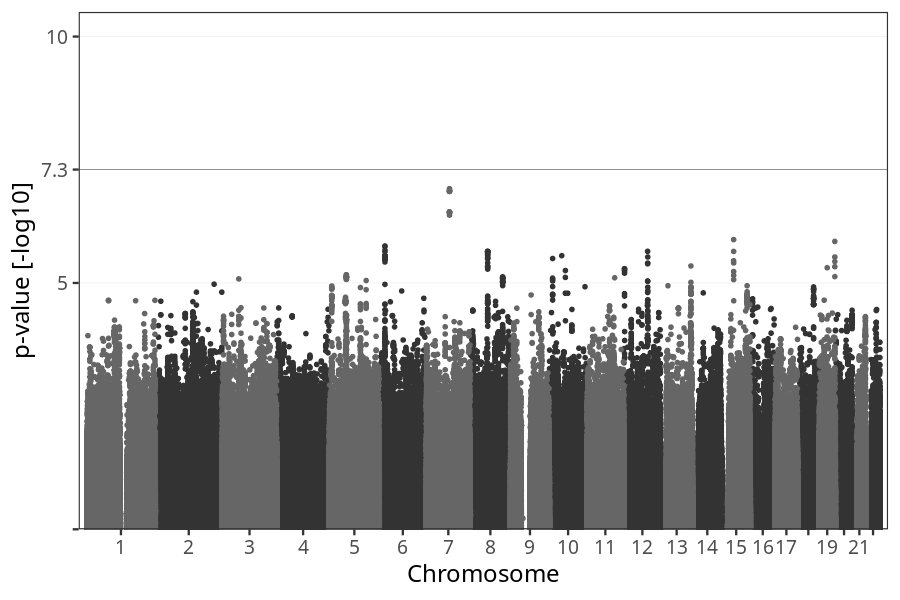
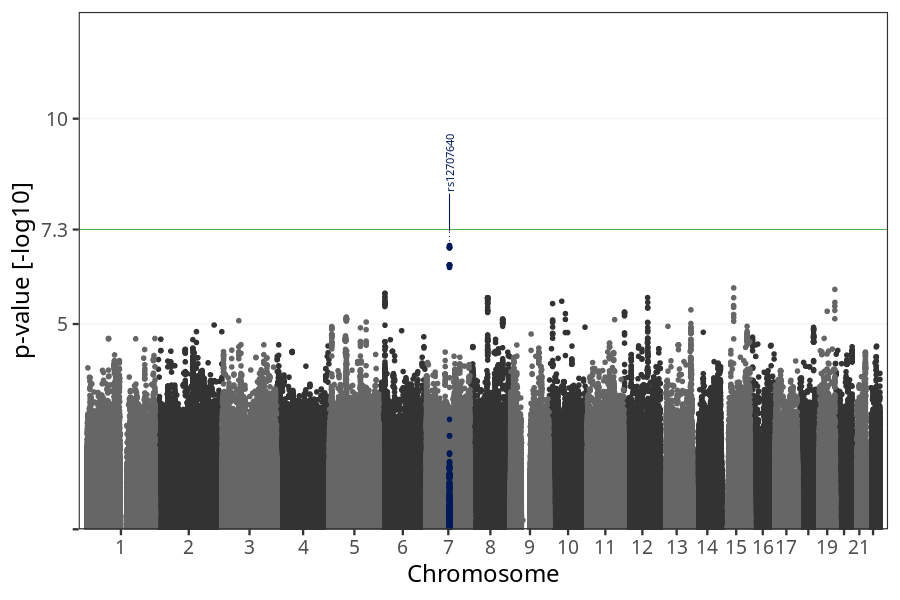
rerun

diff --git a/docs/hyperemesis_gravidarum.md b/docs/hyperemesis_gravidarum.md
@@ -15,19 +15,19 @@ GWAS of mothers hospitalized due to prolonged nausea and vomiting.
 ![](regenie/pop_children_pheno_hyperemesis_gravidarum/figures/pop_children_pheno_hyperemesis_gravidarum_mh.png)
 Results prior to COJO are available [here](regenie_no_cojo/pop_children_pheno_hyperemesis_gravidarum/pop_children_pheno_hyperemesis_gravidarum.md)
 
-### children_nausea_vomiting
+### children_no_nausea_vomiting
 
 #### Phenotypes
 | Value | N |
 | ----- | - |
 | 0 | 54051 |
-| 1 | 739 |
-| Total | 54790 |
+| 1 | 748 |
+| Total | 54799 |
 
 #### Association results
-- [Association results](regenie/pop_children_nausea_vomiting_pheno_hyperemesis_gravidarum/pop_children_nausea_vomiting_pheno_hyperemesis_gravidarum.md)
-![](regenie/pop_children_nausea_vomiting_pheno_hyperemesis_gravidarum/figures/pop_children_nausea_vomiting_pheno_hyperemesis_gravidarum_mh.png)
-Results prior to COJO are available [here](regenie_no_cojo/pop_children_nausea_vomiting_pheno_hyperemesis_gravidarum/pop_children_nausea_vomiting_pheno_hyperemesis_gravidarum.md)
+- [Association results](regenie/pop_children_no_nausea_vomiting_pheno_hyperemesis_gravidarum/pop_children_no_nausea_vomiting_pheno_hyperemesis_gravidarum.md)
+![](regenie/pop_children_no_nausea_vomiting_pheno_hyperemesis_gravidarum/figures/pop_children_no_nausea_vomiting_pheno_hyperemesis_gravidarum_mh.png)
+Results prior to COJO are available [here](regenie_no_cojo/pop_children_no_nausea_vomiting_pheno_hyperemesis_gravidarum/pop_children_no_nausea_vomiting_pheno_hyperemesis_gravidarum.md)
 
 ### mothers
 
@@ -43,19 +43,19 @@ Results prior to COJO are available [here](regenie_no_cojo/pop_children_nausea_v
 ![](regenie/pop_mothers_pheno_hyperemesis_gravidarum/figures/pop_mothers_pheno_hyperemesis_gravidarum_mh.png)
 Results prior to COJO are available [here](regenie_no_cojo/pop_mothers_pheno_hyperemesis_gravidarum/pop_mothers_pheno_hyperemesis_gravidarum.md)
 
-### mothers_nausea_vomiting
+### mothers_no_nausea_vomiting
 
 #### Phenotypes
 | Value | N |
 | ----- | - |
 | 0 | 41287 |
-| 1 | 571 |
-| Total | 41858 |
+| 1 | 577 |
+| Total | 41864 |
 
 #### Association results
-- [Association results](regenie/pop_mothers_nausea_vomiting_pheno_hyperemesis_gravidarum/pop_mothers_nausea_vomiting_pheno_hyperemesis_gravidarum.md)
-![](regenie/pop_mothers_nausea_vomiting_pheno_hyperemesis_gravidarum/figures/pop_mothers_nausea_vomiting_pheno_hyperemesis_gravidarum_mh.png)
-Results prior to COJO are available [here](regenie_no_cojo/pop_mothers_nausea_vomiting_pheno_hyperemesis_gravidarum/pop_mothers_nausea_vomiting_pheno_hyperemesis_gravidarum.md)
+- [Association results](regenie/pop_mothers_no_nausea_vomiting_pheno_hyperemesis_gravidarum/pop_mothers_no_nausea_vomiting_pheno_hyperemesis_gravidarum.md)
+![](regenie/pop_mothers_no_nausea_vomiting_pheno_hyperemesis_gravidarum/figures/pop_mothers_no_nausea_vomiting_pheno_hyperemesis_gravidarum_mh.png)
+Results prior to COJO are available [here](regenie_no_cojo/pop_mothers_no_nausea_vomiting_pheno_hyperemesis_gravidarum/pop_mothers_no_nausea_vomiting_pheno_hyperemesis_gravidarum.md)
 
 ### fathers
 
@@ -71,17 +71,17 @@ Results prior to COJO are available [here](regenie_no_cojo/pop_mothers_nausea_vo
 ![](regenie/pop_fathers_pheno_hyperemesis_gravidarum/figures/pop_fathers_pheno_hyperemesis_gravidarum_mh.png)
 Results prior to COJO are available [here](regenie_no_cojo/pop_fathers_pheno_hyperemesis_gravidarum/pop_fathers_pheno_hyperemesis_gravidarum.md)
 
-### fathers_nausea_vomiting
+### fathers_no_nausea_vomiting
 
 #### Phenotypes
 | Value | N |
 | ----- | - |
-| 0 | 28561 |
-| 1 | 426 |
-| Total | 28987 |
+| 0 | 9461 |
+| 1 | 430 |
+| Total | 9891 |
 
 #### Association results
-- [Association results](regenie/pop_fathers_nausea_vomiting_pheno_hyperemesis_gravidarum/pop_fathers_nausea_vomiting_pheno_hyperemesis_gravidarum.md)
-![](regenie/pop_fathers_nausea_vomiting_pheno_hyperemesis_gravidarum/figures/pop_fathers_nausea_vomiting_pheno_hyperemesis_gravidarum_mh.png)
-Results prior to COJO are available [here](regenie_no_cojo/pop_fathers_nausea_vomiting_pheno_hyperemesis_gravidarum/pop_fathers_nausea_vomiting_pheno_hyperemesis_gravidarum.md)
+- [Association results](regenie/pop_fathers_no_nausea_vomiting_pheno_hyperemesis_gravidarum/pop_fathers_no_nausea_vomiting_pheno_hyperemesis_gravidarum.md)
+![](regenie/pop_fathers_no_nausea_vomiting_pheno_hyperemesis_gravidarum/figures/pop_fathers_no_nausea_vomiting_pheno_hyperemesis_gravidarum_mh.png)
+Results prior to COJO are available [here](regenie_no_cojo/pop_fathers_no_nausea_vomiting_pheno_hyperemesis_gravidarum/pop_fathers_no_nausea_vomiting_pheno_hyperemesis_gravidarum.md)
 

diff --git a/docs/regenie/pop_children_no_nausea_vomiting_pheno_hyperemesis_gravidarum/ensembl/rs34741019.md b/docs/regenie/pop_children_no_nausea_vomiting_pheno_hyperemesis_gravidarum/ensembl/rs34741019.md
@@ -1,0 +1,19 @@
+# rs34741019
+
+[[GWAS Catalog]](https://www.ebi.ac.uk/gwas/variants/rs34741019)[[UCSC]](https://genome.ucsc.edu/cgi-bin/hgTracks?position=chr1:209655528-209855528&addHighlight=hg19.chr1%3A123065528%2D123066028%23fcfcac&hgFind.matches=rs34741019&db=hg19)[[Ensembl]](https://grch37.ensembl.org/Homo_sapiens/Variation/Explore?r=1:209755528-209755528;v=rs34741019;vdb=variation)
+## Closest genes
+
+Genes withing 100 kbp
+
+| Direction | Distance | Name | Strand | Start | End | Biotype | Description | ID |
+| --------- | -------- | ---- | ------ | ----- | --- | ------- | ----------- | -- |
+| Upstream | 14510 | RP1-272L16.1 | -1 | 209701800 | 209741018 | lincRNA |  | ENSG00000224260 |
+| Downstream | 1534 | CAMK1G | 1 | 209757062 | 209787283 | protein_coding | calcium/calmodulin-dependent protein kinase IG [Source:HGNC Symbol;Acc:14585] | ENSG00000008118 |
+| Downstream | 32687 | LAMB3 | -1 | 209788215 | 209825811 | protein_coding | laminin, beta 3 [Source:HGNC Symbol;Acc:6490] | ENSG00000196878 |
+| Downstream | 41261 | MIR4260 | -1 | 209796789 | 209796855 | miRNA | microRNA 4260 [Source:HGNC Symbol;Acc:38179] | ENSG00000264831 |
+| Downstream | 79181 | RP1-28O10.1 | -1 | 209834709 | 209897470 | antisense |  | ENSG00000227591 |
+| Downstream | 93237 | G0S2 | 1 | 209848765 | 209849733 | protein_coding | G0/G1switch 2 [Source:HGNC Symbol;Acc:30229] | ENSG00000123689 |
+
+
+Download: [[VEP]](rs34741019_vep.json.gz)[[Genes]](rs34741019_gene.json.gz)
+

diff --git a/docs/regenie/pop_children_pheno_hyperemesis_gravidarum/ensembl/rs35458333.md b/docs/regenie/pop_children_pheno_hyperemesis_gravidarum/ensembl/rs35458333.md
@@ -1,0 +1,19 @@
+# rs35458333
+
+[[GWAS Catalog]](https://www.ebi.ac.uk/gwas/variants/rs35458333)[[UCSC]](https://genome.ucsc.edu/cgi-bin/hgTracks?position=chr1:209655967-209855967&addHighlight=hg19.chr1%3A123065528%2D123066028%23fcfcac&hgFind.matches=rs35458333&db=hg19)[[Ensembl]](https://grch37.ensembl.org/Homo_sapiens/Variation/Explore?r=1:209755967-209755967;v=rs35458333;vdb=variation)
+## Closest genes
+
+Genes withing 100 kbp
+
+| Direction | Distance | Name | Strand | Start | End | Biotype | Description | ID |
+| --------- | -------- | ---- | ------ | ----- | --- | ------- | ----------- | -- |
+| Upstream | 14949 | RP1-272L16.1 | -1 | 209701800 | 209741018 | lincRNA |  | ENSG00000224260 |
+| Downstream | 1095 | CAMK1G | 1 | 209757062 | 209787283 | protein_coding | calcium/calmodulin-dependent protein kinase IG [Source:HGNC Symbol;Acc:14585] | ENSG00000008118 |
+| Downstream | 32248 | LAMB3 | -1 | 209788215 | 209825811 | protein_coding | laminin, beta 3 [Source:HGNC Symbol;Acc:6490] | ENSG00000196878 |
+| Downstream | 40822 | MIR4260 | -1 | 209796789 | 209796855 | miRNA | microRNA 4260 [Source:HGNC Symbol;Acc:38179] | ENSG00000264831 |
+| Downstream | 78742 | RP1-28O10.1 | -1 | 209834709 | 209897470 | antisense |  | ENSG00000227591 |
+| Downstream | 92798 | G0S2 | 1 | 209848765 | 209849733 | protein_coding | G0/G1switch 2 [Source:HGNC Symbol;Acc:30229] | ENSG00000123689 |
+
+
+Download: [[VEP]](rs35458333_vep.json.gz)[[Genes]](rs35458333_gene.json.gz)
+

diff --git a/docs/regenie/pop_children_no_nausea_vomiting_pheno_hyperemesis_gravidarum/pop_children_no_nausea_vomiting_pheno_hyperemesis_gravidarum.md b/docs/regenie/pop_children_no_nausea_vomiting_pheno_hyperemesis_gravidarum/pop_children_no_nausea_vomiting_pheno_hyperemesis_gravidarum.md
@@ -1,0 +1,15 @@
+## hyperemesis_gravidarum in children_no_nausea_vomiting
+Association results by regenie for hyperemesis_gravidarum in children_no_nausea_vomiting, followed by COJO analysis of the hits passing p < 5e-8.
+### Manhattan
+![](figures/pop_children_no_nausea_vomiting_pheno_hyperemesis_gravidarum_mh.png)
+### Top hits
+| SNP | chr | bp | ref | ref freq | beta | se | p | n | Ensembl | Phenoscanner | freq geno | b joint | b joint se | p joint | ld r |
+| --- | --- | -- | --- | -------- | ---- | -- | - | - | ------- | ------------ | --------- | ------- | ---------- | ------- | ---- |
+| rs34741019 | 1 | 209755528 | G | 0.145316 | 0.379026 | 0.0752548 | 4.7395e-07 | 55540.9 | [CAMK1G](ensembl/rs34741019.md) | No Results | 0.145379 | 0.379026 | 0.0752713 | 4.76691e-07 | 0 |
+### Quality Control
+- QQ plot
+![](figures/pop_children_no_nausea_vomiting_pheno_hyperemesis_gravidarum_qq.png)
+- Beta vs. Allele Frequency
+![](figures/pop_children_no_nausea_vomiting_pheno_hyperemesis_gravidarum_beta_af.png)
+- Standard error vs. Allele Frequency
+![](figures/pop_children_no_nausea_vomiting_pheno_hyperemesis_gravidarum_se_af.png)

diff --git a/docs/regenie/pop_mothers_no_nausea_vomiting_pheno_hyperemesis_gravidarum/pop_mothers_no_nausea_vomiting_pheno_hyperemesis_gravidarum.md b/docs/regenie/pop_mothers_no_nausea_vomiting_pheno_hyperemesis_gravidarum/pop_mothers_no_nausea_vomiting_pheno_hyperemesis_gravidarum.md
@@ -1,0 +1,15 @@
+## hyperemesis_gravidarum in mothers_no_nausea_vomiting
+Association results by regenie for hyperemesis_gravidarum in mothers_no_nausea_vomiting, followed by COJO analysis of the hits passing p < 5e-8.
+### Manhattan
+![](figures/pop_mothers_no_nausea_vomiting_pheno_hyperemesis_gravidarum_mh.png)
+### Top hits
+| SNP | chr | bp | ref | ref freq | beta | se | p | n | Ensembl | Phenoscanner | freq geno | b joint | b joint se | p joint | ld r |
+| --- | --- | -- | --- | -------- | ---- | -- | - | - | ------- | ------------ | --------- | ------- | ---------- | ------- | ---- |
+| rs12707640 | 7 | 83916042 | G | 0.0494789 | 0.717094 | 0.137945 | 2.01006e-07 | 41657.8 | [SEMA3A](ensembl/rs12707640.md) | No Results | 0.0496024 | 0.717094 | 0.137988 | 2.02768e-07 | 0 |
+### Quality Control
+- QQ plot
+![](figures/pop_mothers_no_nausea_vomiting_pheno_hyperemesis_gravidarum_qq.png)
+- Beta vs. Allele Frequency
+![](figures/pop_mothers_no_nausea_vomiting_pheno_hyperemesis_gravidarum_beta_af.png)
+- Standard error vs. Allele Frequency
+![](figures/pop_mothers_no_nausea_vomiting_pheno_hyperemesis_gravidarum_se_af.png)

diff --git a/docs/regenie/pop_fathers_no_nausea_vomiting_pheno_hyperemesis_gravidarum/pop_fathers_no_nausea_vomiting_pheno_hyperemesis_gravidarum.md b/docs/regenie/pop_fathers_no_nausea_vomiting_pheno_hyperemesis_gravidarum/pop_fathers_no_nausea_vomiting_pheno_hyperemesis_gravidarum.md
@@ -1,0 +1,14 @@
+## hyperemesis_gravidarum in fathers_no_nausea_vomiting
+Association results by regenie for hyperemesis_gravidarum in fathers_no_nausea_vomiting, followed by COJO analysis of the hits passing p < 5e-8.
+### Manhattan
+![](figures/pop_fathers_no_nausea_vomiting_pheno_hyperemesis_gravidarum_mh.png)
+### Top hits
+| SNP | chr | bp | ref | ref freq | beta | se | p | n | Ensembl | Phenoscanner | freq geno | b joint | b joint se | p joint | ld r |
+| --- | --- | -- | --- | -------- | ---- | -- | - | - | ------- | ------------ | --------- | ------- | ---------- | ------- | ---- |
+### Quality Control
+- QQ plot
+![](figures/pop_fathers_no_nausea_vomiting_pheno_hyperemesis_gravidarum_qq.png)
+- Beta vs. Allele Frequency
+![](figures/pop_fathers_no_nausea_vomiting_pheno_hyperemesis_gravidarum_beta_af.png)
+- Standard error vs. Allele Frequency
+![](figures/pop_fathers_no_nausea_vomiting_pheno_hyperemesis_gravidarum_se_af.png)

diff --git a/docs/regenie/pop_mothers_no_nausea_vomiting_pheno_hyperemesis_gravidarum/ensembl/rs12707640.md b/docs/regenie/pop_mothers_no_nausea_vomiting_pheno_hyperemesis_gravidarum/ensembl/rs12707640.md
@@ -1,0 +1,14 @@
+# rs12707640
+
+[[GWAS Catalog]](https://www.ebi.ac.uk/gwas/variants/rs12707640)[[UCSC]](https://genome.ucsc.edu/cgi-bin/hgTracks?position=chr7:83816042-84016042&addHighlight=hg19.chr7%3A123065528%2D123066028%23fcfcac&hgFind.matches=rs12707640&db=hg19)[[Ensembl]](https://grch37.ensembl.org/Homo_sapiens/Variation/Explore?r=7:83916042-83916042;v=rs12707640;vdb=variation)
+## Closest genes
+
+Genes withing 100 kbp
+
+| Direction | Distance | Name | Strand | Start | End | Biotype | Description | ID |
+| --------- | -------- | ---- | ------ | ----- | --- | ------- | ----------- | -- |
+| Intragenic | 0 | SEMA3A | -1 | 83585093 | 84122040 | protein_coding | sema domain, immunoglobulin domain (Ig), short basic domain, secreted, (semaphorin) 3A [Source:HGNC Symbol;Acc:10723] | ENSG00000075213 |
+
+
+Download: [[VEP]](rs12707640_vep.json.gz)[[Genes]](rs12707640_gene.json.gz)
+

diff --git a/docs/regenie/pop_mothers_pheno_hyperemesis_gravidarum/ensembl/rs12707640.md b/docs/regenie/pop_mothers_pheno_hyperemesis_gravidarum/ensembl/rs12707640.md
@@ -1,0 +1,14 @@
+# rs12707640
+
+[[GWAS Catalog]](https://www.ebi.ac.uk/gwas/variants/rs12707640)[[UCSC]](https://genome.ucsc.edu/cgi-bin/hgTracks?position=chr7:83816042-84016042&addHighlight=hg19.chr7%3A123065528%2D123066028%23fcfcac&hgFind.matches=rs12707640&db=hg19)[[Ensembl]](https://grch37.ensembl.org/Homo_sapiens/Variation/Explore?r=7:83916042-83916042;v=rs12707640;vdb=variation)
+## Closest genes
+
+Genes withing 100 kbp
+
+| Direction | Distance | Name | Strand | Start | End | Biotype | Description | ID |
+| --------- | -------- | ---- | ------ | ----- | --- | ------- | ----------- | -- |
+| Intragenic | 0 | SEMA3A | -1 | 83585093 | 84122040 | protein_coding | sema domain, immunoglobulin domain (Ig), short basic domain, secreted, (semaphorin) 3A [Source:HGNC Symbol;Acc:10723] | ENSG00000075213 |
+
+
+Download: [[VEP]](rs12707640_vep.json.gz)[[Genes]](rs12707640_gene.json.gz)
+

diff --git a/docs/regenie/pop_children_pheno_hyperemesis_gravidarum/pop_children_pheno_hyperemesis_gravidarum.md b/docs/regenie/pop_children_pheno_hyperemesis_gravidarum/pop_children_pheno_hyperemesis_gravidarum.md
@@ -5,6 +5,8 @@ Association results by regenie for hyperemesis_gravidarum in children, followed 
 ### Top hits
 | SNP | chr | bp | ref | ref freq | beta | se | p | n | Ensembl | Phenoscanner | freq geno | b joint | b joint se | p joint | ld r |
 | --- | --- | -- | --- | -------- | ---- | -- | - | - | ------- | ------------ | --------- | ------- | ---------- | ------- | ---- |
+| rs35458333 | 1 | 209755967 | A | 0.145054 | 0.381211 | 0.0751291 | 3.89377e-07 | 74287.8 | [CAMK1G](ensembl/rs35458333.md) | No Results | 0.145395 | 0.381211 | 0.0751416 | 3.91111e-07 | 0 |
+| rs78179953 | 2 | 239486309 | G | 0.023763 | 0.860619 | 0.174119 | 7.70457e-07 | 73944.5 | [LINC01107](ensembl/rs78179953.md) | No Results | 0.0251053 | 0.860619 | 0.174147 | 7.73558e-07 | 0 |
 ### Quality Control
 - QQ plot
 ![](figures/pop_children_pheno_hyperemesis_gravidarum_qq.png)

diff --git a/docs/regenie/pop_children_pheno_hyperemesis_gravidarum/ensembl/rs78179953.md b/docs/regenie/pop_children_pheno_hyperemesis_gravidarum/ensembl/rs78179953.md
@@ -1,0 +1,14 @@
+# rs78179953
+
+[[GWAS Catalog]](https://www.ebi.ac.uk/gwas/variants/rs78179953)[[UCSC]](https://genome.ucsc.edu/cgi-bin/hgTracks?position=chr2:239386309-239586309&addHighlight=hg19.chr2%3A123065528%2D123066028%23fcfcac&hgFind.matches=rs78179953&db=hg19)[[Ensembl]](https://grch37.ensembl.org/Homo_sapiens/Variation/Explore?r=2:239486309-239486309;v=rs78179953;vdb=variation)
+## Closest genes
+
+Genes withing 100 kbp
+
+| Direction | Distance | Name | Strand | Start | End | Biotype | Description | ID |
+| --------- | -------- | ---- | ------ | ----- | --- | ------- | ----------- | -- |
+| Upstream | 22614 | LINC01107 | -1 | 239419331 | 239463695 | lincRNA | long intergenic non-protein coding RNA 1107 [Source:HGNC Symbol;Acc:49229] | ENSG00000225493 |
+
+
+Download: [[VEP]](rs78179953_vep.json.gz)[[Genes]](rs78179953_gene.json.gz)
+

diff --git a/docs/regenie/pop_fathers_pheno_hyperemesis_gravidarum/ensembl/rs78179953.md b/docs/regenie/pop_fathers_pheno_hyperemesis_gravidarum/ensembl/rs78179953.md
@@ -1,0 +1,14 @@
+# rs78179953
+
+[[GWAS Catalog]](https://www.ebi.ac.uk/gwas/variants/rs78179953)[[UCSC]](https://genome.ucsc.edu/cgi-bin/hgTracks?position=chr2:239386309-239586309&addHighlight=hg19.chr2%3A123065528%2D123066028%23fcfcac&hgFind.matches=rs78179953&db=hg19)[[Ensembl]](https://grch37.ensembl.org/Homo_sapiens/Variation/Explore?r=2:239486309-239486309;v=rs78179953;vdb=variation)
+## Closest genes
+
+Genes withing 100 kbp
+
+| Direction | Distance | Name | Strand | Start | End | Biotype | Description | ID |
+| --------- | -------- | ---- | ------ | ----- | --- | ------- | ----------- | -- |
+| Upstream | 22614 | LINC01107 | -1 | 239419331 | 239463695 | lincRNA | long intergenic non-protein coding RNA 1107 [Source:HGNC Symbol;Acc:49229] | ENSG00000225493 |
+
+
+Download: [[VEP]](rs78179953_vep.json.gz)[[Genes]](rs78179953_gene.json.gz)
+

diff --git a/docs/regenie/pop_fathers_pheno_hyperemesis_gravidarum/pop_fathers_pheno_hyperemesis_gravidarum.md b/docs/regenie/pop_fathers_pheno_hyperemesis_gravidarum/pop_fathers_pheno_hyperemesis_gravidarum.md
@@ -5,6 +5,7 @@ Association results by regenie for hyperemesis_gravidarum in fathers, followed b
 ### Top hits
 | SNP | chr | bp | ref | ref freq | beta | se | p | n | Ensembl | Phenoscanner | freq geno | b joint | b joint se | p joint | ld r |
 | --- | --- | -- | --- | -------- | ---- | -- | - | - | ------- | ------------ | --------- | ------- | ---------- | ------- | ---- |
+| rs78179953 | 2 | 239486309 | G | 0.0233226 | 1.1656 | 0.229249 | 3.68736e-07 | 38505.4 | [LINC01107](ensembl/rs78179953.md) | No Results | 0.0236336 | 1.1656 | 0.229323 | 3.71935e-07 | 0 |
 ### Quality Control
 - QQ plot
 ![](figures/pop_fathers_pheno_hyperemesis_gravidarum_qq.png)
